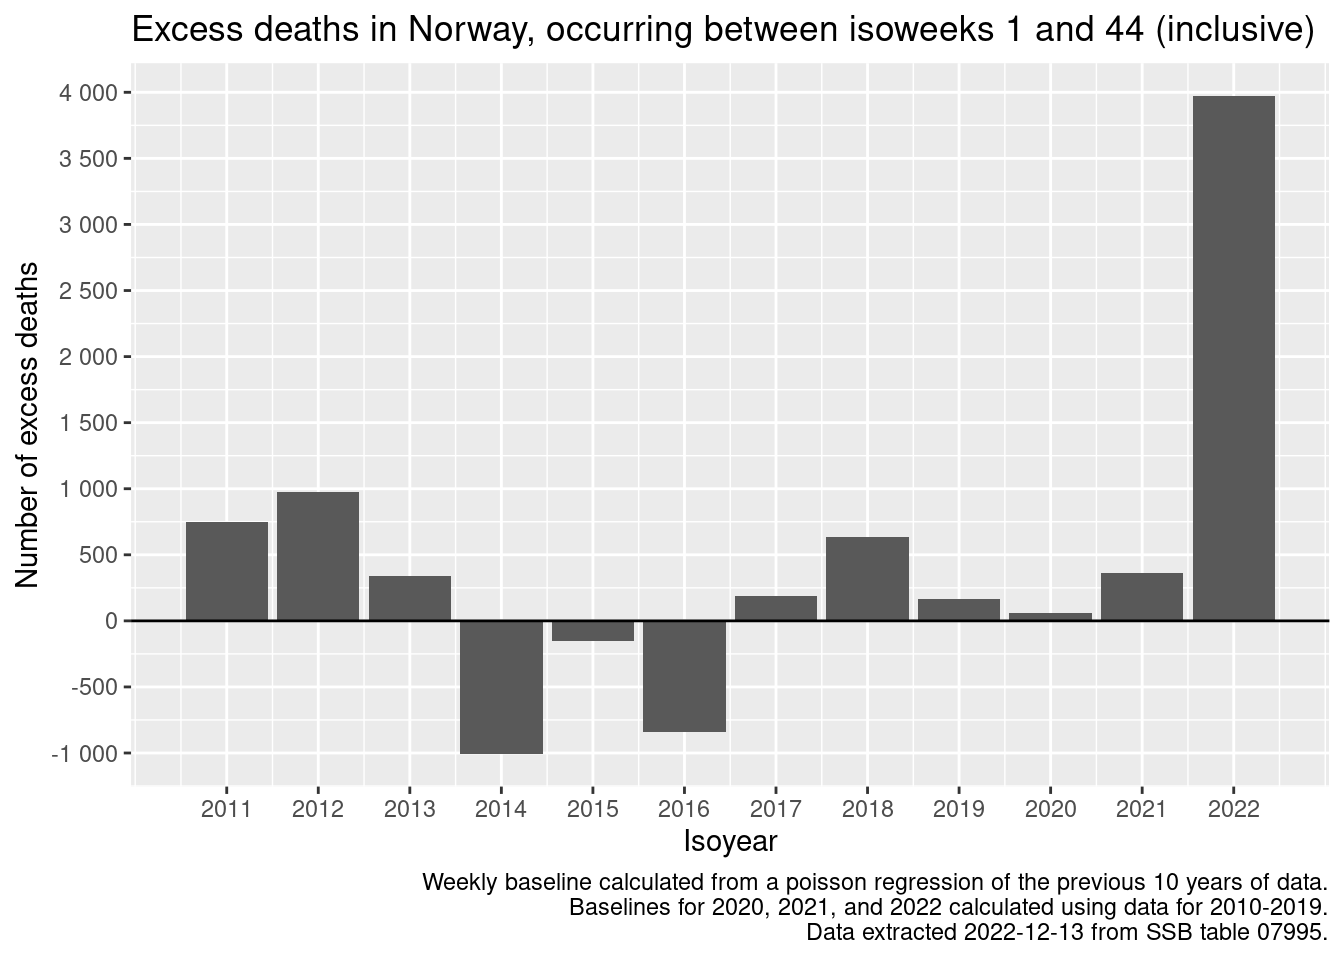
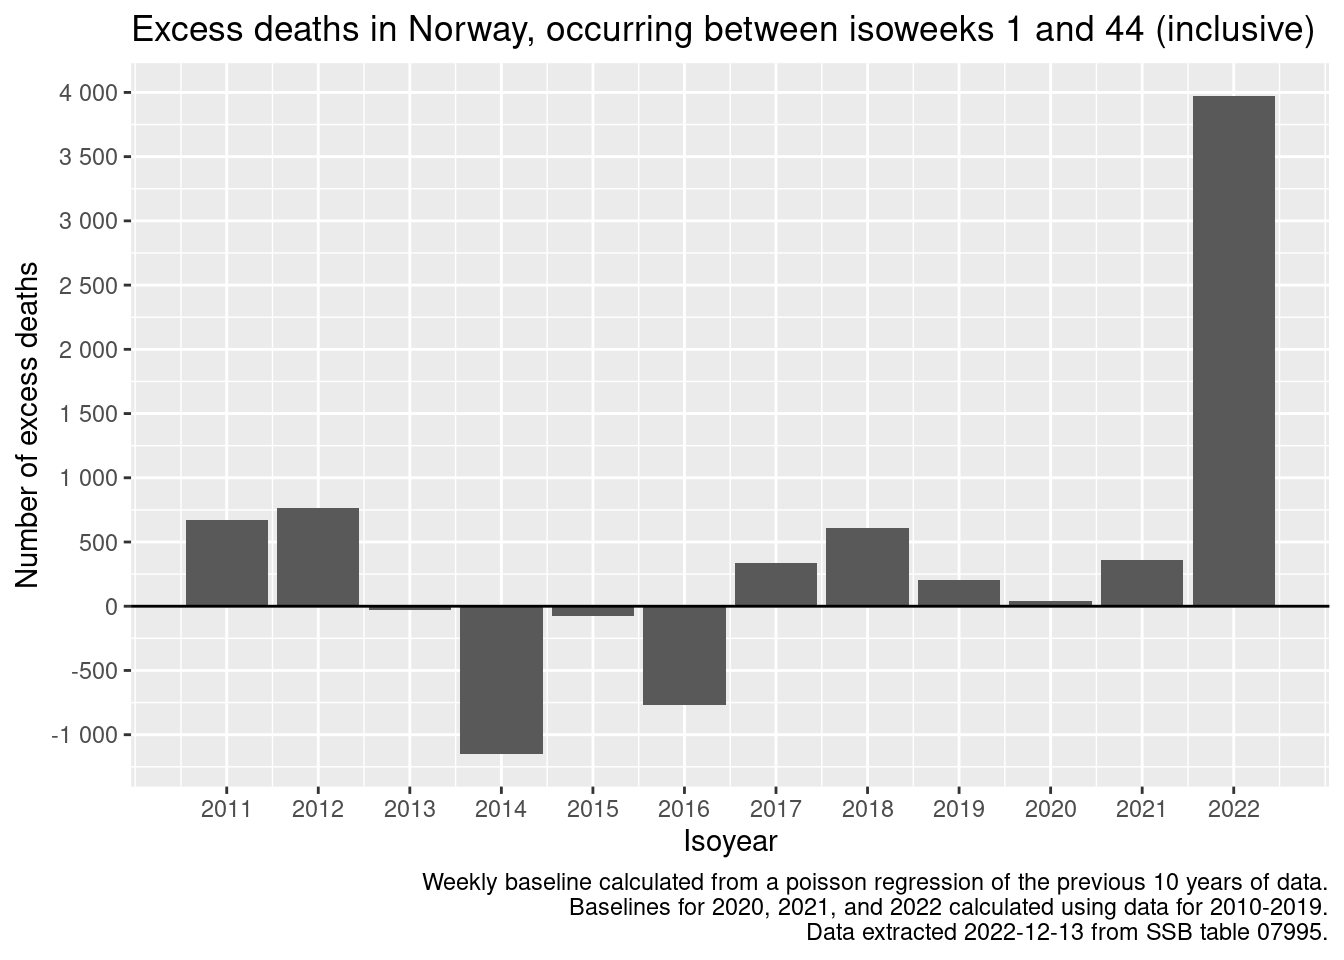
docs commit

diff --git a/docs/post/2022-12-13-all-cause-mortality-in-norway/all-cause-mortality-in-norway.html b/docs/post/2022-12-13-all-cause-mortality-in-norway/all-cause-mortality-in-norway.html
@@ -298,8 +298,8 @@ background: #b8e2f2;
 <span id="cb4-3"><a href="#cb4-3" aria-hidden="true" tabindex="-1"></a><span class="cf">for</span>(isoyear_pred <span class="cf">in</span> <span class="dv">2011</span><span class="sc">:</span><span class="dv">2022</span>) <span class="cf">for</span>(isoweek_model <span class="cf">in</span> <span class="fu">unique</span>(d_deaths<span class="sc">$</span>isoweek)){</span>
 <span id="cb4-4"><a href="#cb4-4" aria-hidden="true" tabindex="-1"></a></span>
 <span id="cb4-5"><a href="#cb4-5" aria-hidden="true" tabindex="-1"></a>  <span class="co"># Determining the training data</span></span>
-<span id="cb4-6"><a href="#cb4-6" aria-hidden="true" tabindex="-1"></a>  <span class="cf">if</span>(isoyear_pred <span class="sc">&lt;=</span> <span class="dv">2020</span>){</span>
-<span id="cb4-7"><a href="#cb4-7" aria-hidden="true" tabindex="-1"></a>    isoyear_train <span class="ot">&lt;-</span> (isoyear_pred<span class="dv">-1</span>)<span class="sc">:</span>(isoyear_pred<span class="dv">-11</span>)</span>
+<span id="cb4-6"><a href="#cb4-6" aria-hidden="true" tabindex="-1"></a>  <span class="cf">if</span>(isoyear_pred <span class="sc">&lt;=</span> <span class="dv">2019</span>){</span>
+<span id="cb4-7"><a href="#cb4-7" aria-hidden="true" tabindex="-1"></a>    isoyear_train <span class="ot">&lt;-</span> (isoyear_pred<span class="dv">-10</span>)<span class="sc">:</span>(isoyear_pred<span class="dv">-1</span>)</span>
 <span id="cb4-8"><a href="#cb4-8" aria-hidden="true" tabindex="-1"></a>  } <span class="cf">else</span> {</span>
 <span id="cb4-9"><a href="#cb4-9" aria-hidden="true" tabindex="-1"></a>    isoyear_train <span class="ot">&lt;-</span> <span class="dv">2010</span><span class="sc">:</span><span class="dv">2019</span></span>
 <span id="cb4-10"><a href="#cb4-10" aria-hidden="true" tabindex="-1"></a>  }</span>
@@ -310,14 +310,21 @@ background: #b8e2f2;
 <span id="cb4-15"><a href="#cb4-15" aria-hidden="true" tabindex="-1"></a>    <span class="at">data =</span> d_deaths[isoweek <span class="sc">%in%</span> isoweek_model <span class="sc">&amp;</span> isoyear <span class="sc">%in%</span> isoyear_train],</span>
 <span id="cb4-16"><a href="#cb4-16" aria-hidden="true" tabindex="-1"></a>    <span class="at">family =</span> <span class="st">"poisson"</span></span>
 <span id="cb4-17"><a href="#cb4-17" aria-hidden="true" tabindex="-1"></a>  )</span>
-<span id="cb4-18"><a href="#cb4-18" aria-hidden="true" tabindex="-1"></a>  <span class="co"># Predicting the baseline</span></span>
-<span id="cb4-19"><a href="#cb4-19" aria-hidden="true" tabindex="-1"></a>  pred <span class="ot">&lt;-</span> <span class="fu">predict</span>(fit, d_deaths[isoweek <span class="sc">%in%</span> isoweek_model <span class="sc">&amp;</span> isoyear <span class="sc">%in%</span> isoyear_pred]) <span class="sc">%&gt;%</span> </span>
-<span id="cb4-20"><a href="#cb4-20" aria-hidden="true" tabindex="-1"></a>    <span class="fu">exp</span>()</span>
-<span id="cb4-21"><a href="#cb4-21" aria-hidden="true" tabindex="-1"></a>  d_deaths[isoweek <span class="sc">%in%</span> isoweek_model <span class="sc">&amp;</span> isoyear <span class="sc">%in%</span> isoyear_pred, deaths_baseline_n <span class="sc">:</span><span class="er">=</span> pred]</span>
-<span id="cb4-22"><a href="#cb4-22" aria-hidden="true" tabindex="-1"></a>}</span>
-<span id="cb4-23"><a href="#cb4-23" aria-hidden="true" tabindex="-1"></a></span>
-<span id="cb4-24"><a href="#cb4-24" aria-hidden="true" tabindex="-1"></a><span class="co"># Calculating the excess mortality</span></span>
-<span id="cb4-25"><a href="#cb4-25" aria-hidden="true" tabindex="-1"></a>d_deaths[, deaths_excess_n <span class="sc">:</span><span class="er">=</span> deaths_n <span class="sc">-</span> deaths_baseline_n]</span></code><button title="Copy to Clipboard" class="code-copy-button"><i class="bi"></i></button></pre></div>
+<span id="cb4-18"><a href="#cb4-18" aria-hidden="true" tabindex="-1"></a>  </span>
+<span id="cb4-19"><a href="#cb4-19" aria-hidden="true" tabindex="-1"></a>  <span class="co"># Predicting the baseline</span></span>
+<span id="cb4-20"><a href="#cb4-20" aria-hidden="true" tabindex="-1"></a>  pred <span class="ot">&lt;-</span> <span class="fu">predict</span>(</span>
+<span id="cb4-21"><a href="#cb4-21" aria-hidden="true" tabindex="-1"></a>      fit, </span>
+<span id="cb4-22"><a href="#cb4-22" aria-hidden="true" tabindex="-1"></a>      d_deaths[isoweek <span class="sc">%in%</span> isoweek_model <span class="sc">&amp;</span> isoyear <span class="sc">%in%</span> isoyear_pred]</span>
+<span id="cb4-23"><a href="#cb4-23" aria-hidden="true" tabindex="-1"></a>    ) <span class="sc">%&gt;%</span> </span>
+<span id="cb4-24"><a href="#cb4-24" aria-hidden="true" tabindex="-1"></a>    <span class="fu">exp</span>()</span>
+<span id="cb4-25"><a href="#cb4-25" aria-hidden="true" tabindex="-1"></a>  d_deaths[</span>
+<span id="cb4-26"><a href="#cb4-26" aria-hidden="true" tabindex="-1"></a>    isoweek <span class="sc">%in%</span> isoweek_model <span class="sc">&amp;</span> isoyear <span class="sc">%in%</span> isoyear_pred, </span>
+<span id="cb4-27"><a href="#cb4-27" aria-hidden="true" tabindex="-1"></a>    deaths_baseline_n <span class="sc">:</span><span class="er">=</span> pred</span>
+<span id="cb4-28"><a href="#cb4-28" aria-hidden="true" tabindex="-1"></a>  ]</span>
+<span id="cb4-29"><a href="#cb4-29" aria-hidden="true" tabindex="-1"></a>}</span>
+<span id="cb4-30"><a href="#cb4-30" aria-hidden="true" tabindex="-1"></a></span>
+<span id="cb4-31"><a href="#cb4-31" aria-hidden="true" tabindex="-1"></a><span class="co"># Calculating the excess mortality</span></span>
+<span id="cb4-32"><a href="#cb4-32" aria-hidden="true" tabindex="-1"></a>d_deaths[, deaths_excess_n <span class="sc">:</span><span class="er">=</span> deaths_n <span class="sc">-</span> deaths_baseline_n]</span></code><button title="Copy to Clipboard" class="code-copy-button"><i class="bi"></i></button></pre></div>
 </div>
 <div class="cell">
 <div class="sourceCode cell-code" id="cb5"><pre class="sourceCode r code-with-copy"><code class="sourceCode r"><span id="cb5-1"><a href="#cb5-1" aria-hidden="true" tabindex="-1"></a><span class="co"># Aggregating</span></span>

diff --git a/docs/blog.html b/docs/blog.html
@@ -187,7 +187,7 @@ background: #b8e2f2;
 
 <div class="quarto-listing quarto-listing-container-default" id="listing-listing">
 <div class="list quarto-listing-default">
-<div class="quarto-post image-right" data-index="0" data-listing-date-sort="1670886000000" data-listing-file-modified-sort="1671005437000" data-listing-reading-time-sort="3.42">
+<div class="quarto-post image-right" data-index="0" data-listing-date-sort="1670886000000" data-listing-file-modified-sort="1671006597000" data-listing-reading-time-sort="3.56">
 <div class="body">
 <a href="./post/2022-12-13-all-cause-mortality-in-norway/all-cause-mortality-in-norway.html">
 <h3 class="no-anchor listing-title">
